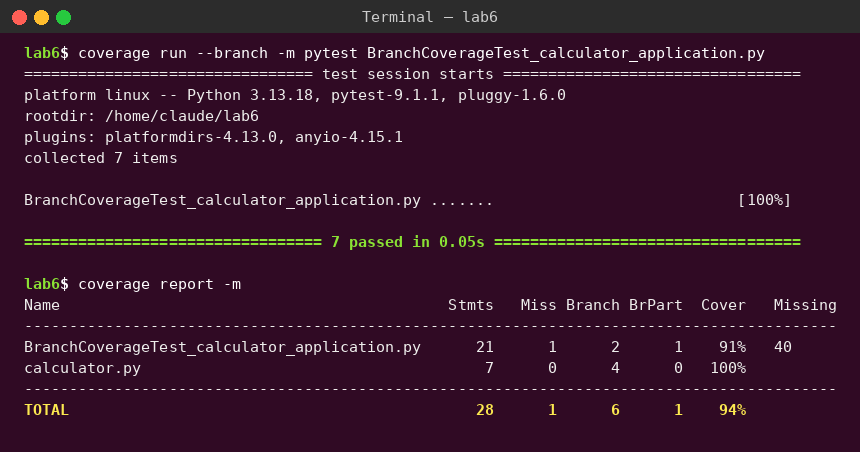
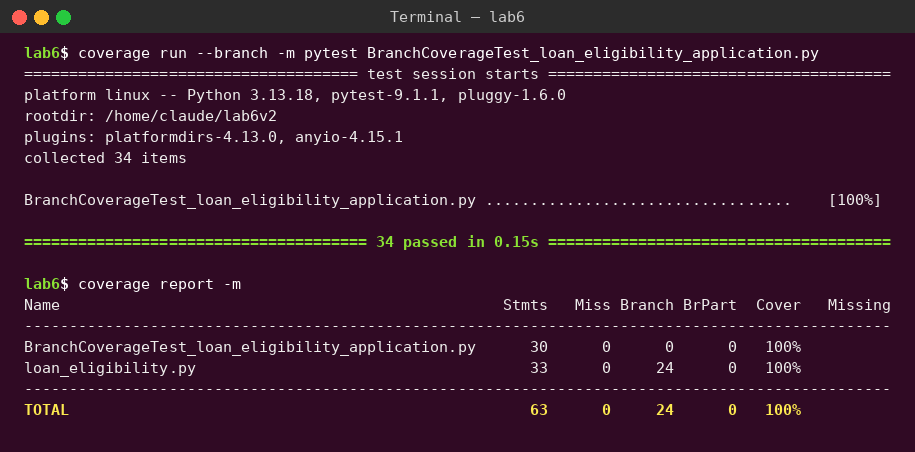
Lab 6: add branch coverage tests (100% branch)

diff --git a/Lab6/BranchCoverageTest_loan_eligibility_application.py b/Lab6/BranchCoverageTest_loan_eligibility_application.py
@@ -1,0 +1,92 @@
+import pytest
+from loan_eligibility import credit_band, is_eligible, interest_rate
+
+
+# ===================== credit_band =====================
+# Decision 1: score < 300 or score > 900  (True via each side, and False)
+def test_score_below_300_raises():
+    with pytest.raises(ValueError):
+        credit_band(299)
+
+
+def test_score_above_900_raises():
+    with pytest.raises(ValueError):
+        credit_band(901)
+
+
+# Boundary values for every band (True and False of each elif)
+@pytest.mark.parametrize("score, band", [
+    (300, "poor"),        # lowest valid score
+    (549, "poor"),        # just below fair
+    (550, "fair"),        # fair boundary
+    (649, "fair"),        # just below good
+    (650, "good"),        # good boundary
+    (749, "good"),        # just below excellent
+    (750, "excellent"),   # excellent boundary
+    (900, "excellent"),   # highest valid score
+])
+def test_credit_band_boundaries(score, band):
+    assert credit_band(score) == band
+
+
+# ===================== is_eligible =====================
+# Decision 1: employment not in MIN_INCOME
+def test_unknown_employment_raises():
+    with pytest.raises(ValueError):
+        is_eligible(30, 50000, "freelancer", 800)
+
+
+# Decision 2: age < 21 or age > 60  (both True sides + boundaries)
+@pytest.mark.parametrize("age, expected", [
+    (20, False),   # below min
+    (21, True),    # min boundary
+    (60, True),    # max boundary
+    (61, False),   # above max
+])
+def test_age_branches(age, expected):
+    assert is_eligible(age, 50000, "salaried", 800) is expected
+
+
+# Decision 3: income < MIN_INCOME[employment] for both employment types
+@pytest.mark.parametrize("income, employment, expected", [
+    (24999, "salaried", False),
+    (25000, "salaried", True),
+    (39999, "self_employed", False),
+    (40000, "self_employed", True),
+])
+def test_income_branches(income, employment, expected):
+    assert is_eligible(30, income, employment, 800) is expected
+
+
+# Decision 4: credit_band(score) == "poor"  (True and False)
+def test_poor_credit_rejected():
+    assert is_eligible(30, 50000, "salaried", 549) is False
+
+
+def test_fair_credit_accepted():
+    assert is_eligible(30, 50000, "salaried", 550) is True
+
+
+# ===================== interest_rate =====================
+# Every band x employment x collateral combination (all branch outcomes)
+@pytest.mark.parametrize("score, employment, collateral, expected", [
+    (800, "salaried",      False, 8),
+    (800, "salaried",      True,  6),
+    (800, "self_employed", False, 9),
+    (800, "self_employed", True,  7),
+    (700, "salaried",      False, 10),
+    (700, "salaried",      True,  8),
+    (700, "self_employed", False, 11),
+    (700, "self_employed", True,  9),
+    (600, "salaried",      False, 13),   # fair -> else branch
+    (600, "self_employed", True,  12),
+    (400, "salaried",      False, 13),   # poor -> else branch
+    (400, "self_employed", False, 14),
+])
+def test_interest_rate_all_branches(score, employment, collateral, expected):
+    assert interest_rate(score, employment, collateral) == expected
+
+
+def test_interest_rate_invalid_score_raises():
+    with pytest.raises(ValueError):
+        interest_rate(250, "salaried", False)
